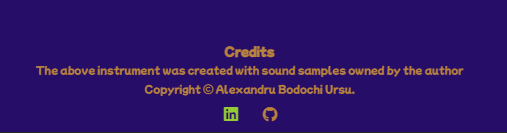
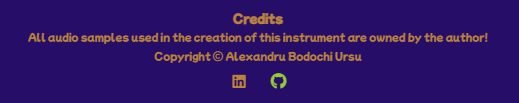
Add more to readme and add section images

diff --git a/README.md b/README.md
@@ -3,30 +3,50 @@
 - Drumkit is a simple, intuitive, easy to use drumming application, 
 that aims to facilitate the exercise of rithmic abilties for the music enthusiasts regrdless of their age! 
 
+![Drumkit](assets/documentation/scaling/1440px%20drumkit.png)
+
 ## Features
 - The Drumkit has a minimalist design with a couple of features that makes it fun to use and explore different percussive sounds. 
 - Besides the minimalist and easy to use interface the colors and the font used for this application were chosen to suggest a playful and inspiring environment.
 - At the top the application title is placed with a hammer that represents the percusive nature of this application.
 - Below the title, the user can find a dropdown menu to select one of the four drum kits, and under this menu the drum pads are placed as the main interactive area. 
-- The drum pads have a suggestive background image of a drum kit. 
+- The drum pads have a suggestive background image of a drum kit.
 
 ### Build Features
+- Above the title element the instruction modal was placed under a reactive question mark that will reveal a short user guide once it's clicked on.  
 - The header element placed on top, representing the name of the application "Drumkit" is interactive in nature and will change color when hovered over. 
 - Immediately below the title a dropdown menu is placed for the user to change the drumkit sounds for all the drum pads / buttons.
 - The drum pads are placed under the kit select area over the main interactive section.  
+
+- __"?" The instruction modal__
+
+- ![Modal"?"](assets/documentation/sections/modal-hover.png)
+- Meant to awake the curiosity of the user, at the very top of the page, a stylish reactive question mark button is placed that will reveal a short user guide once it's clicked on.
+- The user guide is meant to quickly instruct the user about the interactive areas and how they are used. 
+- This was achieved with the use of modals in Java Script and it opens a scroll through window that will sit on top of the page until closed. 
+- The styling for this user guide also creates an overlay that shadows the rest of the web page as long as the modal is open.
+- In order to close the modal the user cal either click on the upper right corner of the instruction window where the 'x' symbol is placed or click anywhere over the background overlay.
+- ![Modal-instruction](assets/documentation/sections/modal.png)
 
 - __Kit select__
 - The "kit select" menu features a total of four drum kits, each containing 5 sounds in total:
   - kick, snare, perc (percussion), hihat and crash (cymbal).
 - This dropdown menu is interactive in nature and the text will change color when hovered over.
 - The sounds presented in each kit are different in style and offer an inspiring range of percussive elements of the same kind (kick, snare, perc, hihat & crash).
+- ![Kit-select](assets/documentation/sections/kit-select.png)
 
 - __Drum pads__
 - The last and most important interactive part is the drum pads/ buttons area where the user can interact with each assigned button in order to play the percussive elements.
-- Each button was designed to be reactive and will change the font color and the size when hovered over or when played, or clicked on.
+- Each button was designed to be reactive and will change the font color and the size when hovered over, when tapped, played by the assigned numeric key or when clicked on!
 - Also each button features a different minimalist circle symbol that was selected per sound which is meant to represent that specific instrument.
-- This area has a inspiring and suggestive background that respresents a black and white photography of an acousitc drum kit. 
-- The photo background suggests the higher importance of this area as being the "playground" or the main interactive part.
+- This area has a inspiring background that respresents a black and white photography of an acousitc drum kit. 
+- The photographic background suggests the higher importance of this area as being the "playground" or the main interactive part.
+- ![Drum-pads](assets/documentation/sections/drum-pads.png)
+
+-__Footer credits__
+- At the very bottom of the page a footer note is placed, meant to give credits to the author of this application and to guide the user towards the linkedin and Github pages of the author.
+- The links towards the social pages is done with the use of fontawesome icons that will react once hovered over and will pop the assigned link in a new tab once clicked on!
+- ![Credits](assets/documentation/sections/credits.png)
 
 ### Followup Features
 - Should this application receive a positive feedback from the music enthusiasts, a few followup features would include:
